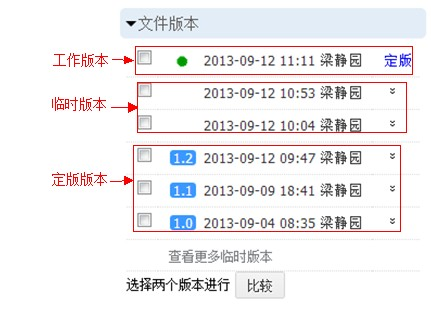
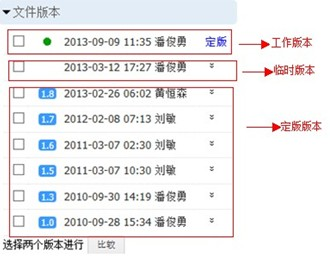
修该版本控制图片

diff --git a/contents/docs/tour/versioning.rst b/contents/docs/tour/versioning.rst
@@ -39,14 +39,14 @@ title: 　版本控制
 .. image:: pic/dingban.jpg
    :alt: 文件定版
 
-版本区别
+定版版本和临时版本
 -------------------------------------------------
 临时版本是没有定版的历史版本。每个文件最多保留最近20个次临时版本，多余20个会自动清除；临时版本也不会记录文件关联关系。
 
 定版的历史版本，可以建快捷方式、附件、关联；可以添加关注、进行收藏、查看或进行评论、分享、外发、发起流程。
 
 .. image:: pic/banbenqubie.jpg
-   :alt: 版本区别
+   :alt: 定版版本和临时版本
 
 版本比较
 -------------------------------------------------
@@ -69,6 +69,6 @@ title: 　版本控制
 
 技巧：产品的版本
 --------------------------------------
-通常一个产品由由多个文档的特定版本组成。
+通常一个产品由多个文档的特定版本组成。
 
 每个产品可创建一个文件夹，里面通过快捷方式，指向文档特定版本即可。
